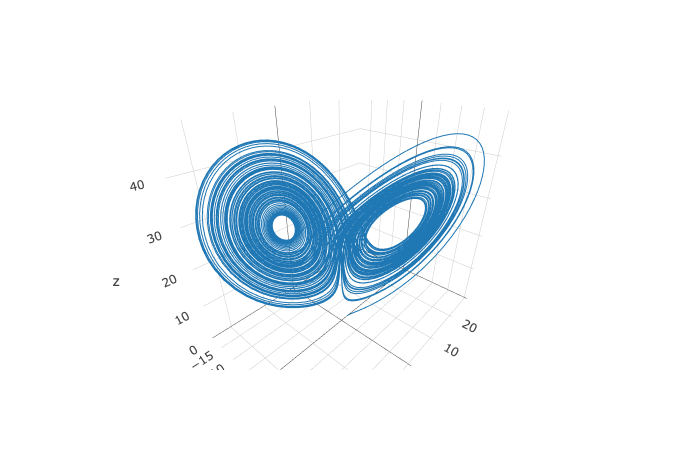
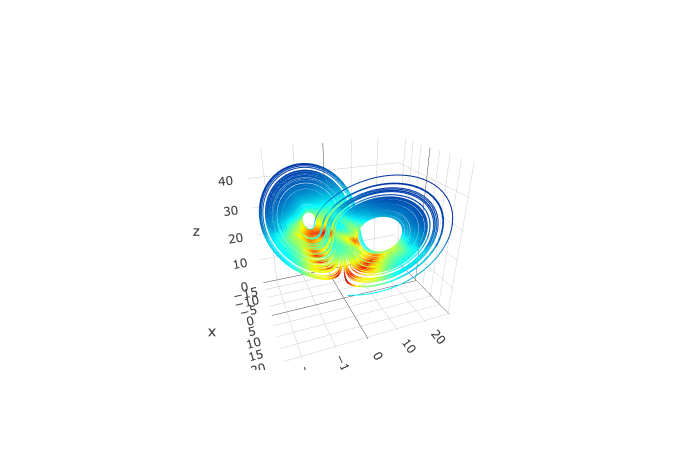
Updated lorenz example with colors

diff --git a/examples.js b/examples.js
@@ -533,11 +533,15 @@ lorenz(t, u) =
 
 sol = solveODE(lorenz, [0, 100], [1, 1, 1]);
 
+diff = diff(sol.t);
+color = concat([diff[1]], diff, 1);
+
 plot(
  [{
     x: flatten(sol.y[:,1]),
     y: flatten(sol.y[:,2]),
     z: flatten(sol.y[:,3]),
+    line:{color:color, colorscale:"Jet"},
     type: "scatter3d",
     mode: "lines"
 }])

diff --git a/README.md b/README.md
@@ -2,7 +2,7 @@
 
 Is a tool for doing numerical calculations fast and easy. It includes units, thermodynamic properties and many more.
 
-[![MainFigure](gui.png)](https://dvd101x.github.io/Engineering-Solver/)
+[![MainFigure](img/gui.png)](https://dvd101x.github.io/Engineering-Solver/)
 
 ## Quick start
 
